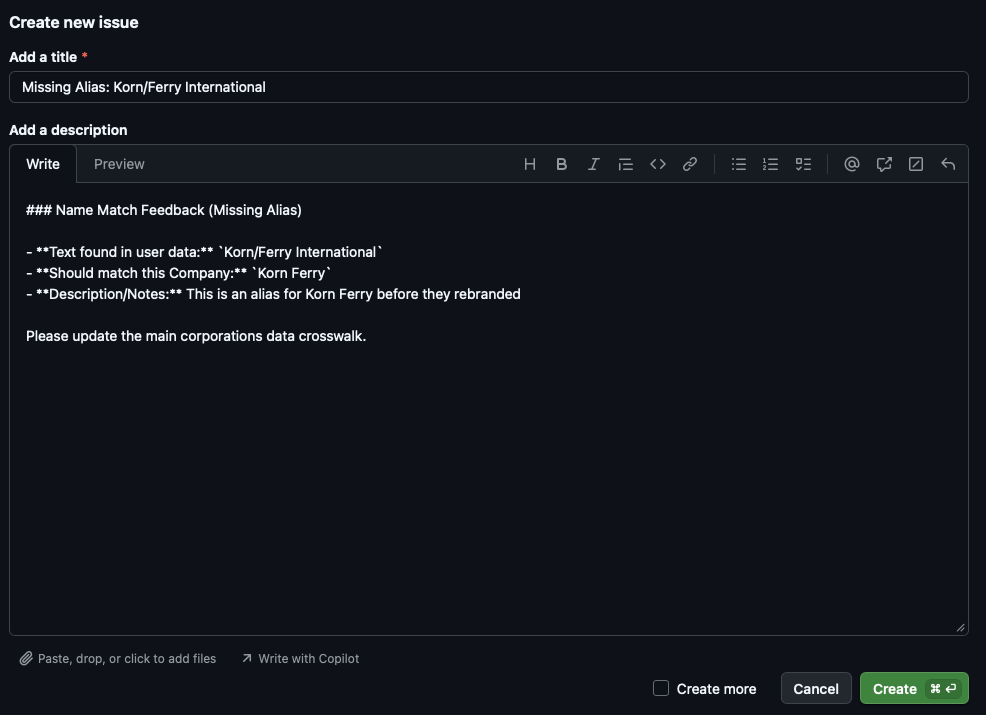
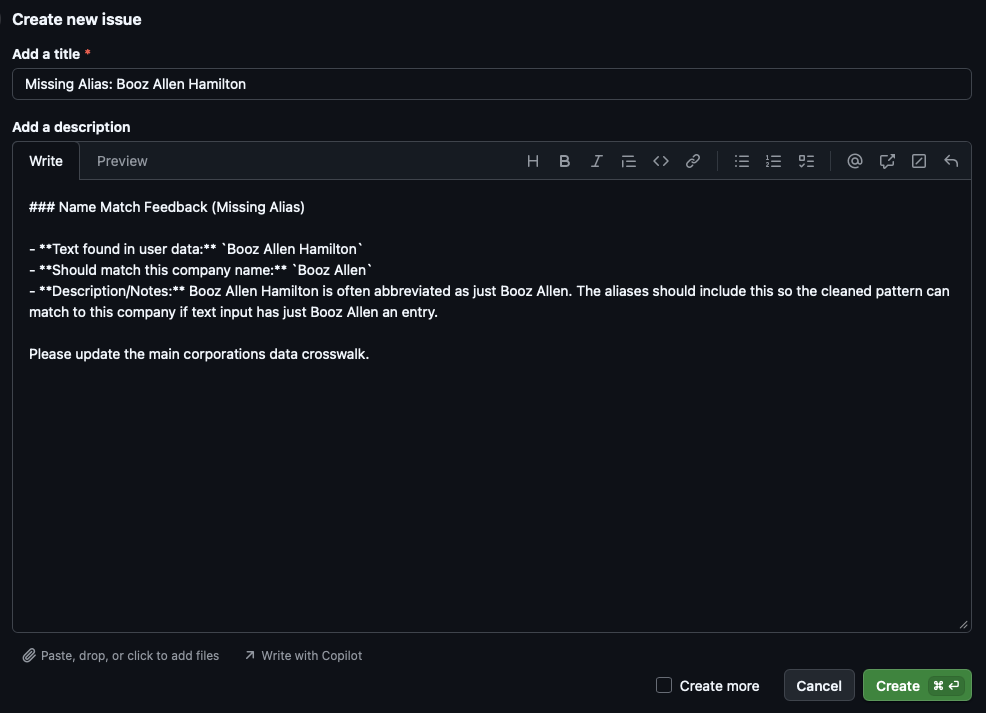
Updated documentation and improved wording of report_fix function #11

diff --git a/README.md b/README.md
@@ -145,9 +145,6 @@ match the same text, multiple rows are returned, one per match.
 - **`regex_return_cols`**: (default `NULL`) Vector of additional columns
   from `corporations_data` to include in the output (e.g., “FED_RSSD”,
   “CIK”).
-- **do_fuzzy_matching**: (default `TRUE`) If TRUE, applies fuzzy
-  matching to the regular expression matches and includes another column
-  of confidence scores for the matches.
 - **`remove_acronyms`**: (default `FALSE`) If `TRUE`, removes
   all-uppercase patterns from `regex_table`.
 - **`do_clean_text`**: (default `TRUE`) If `TRUE`, cleans text before
